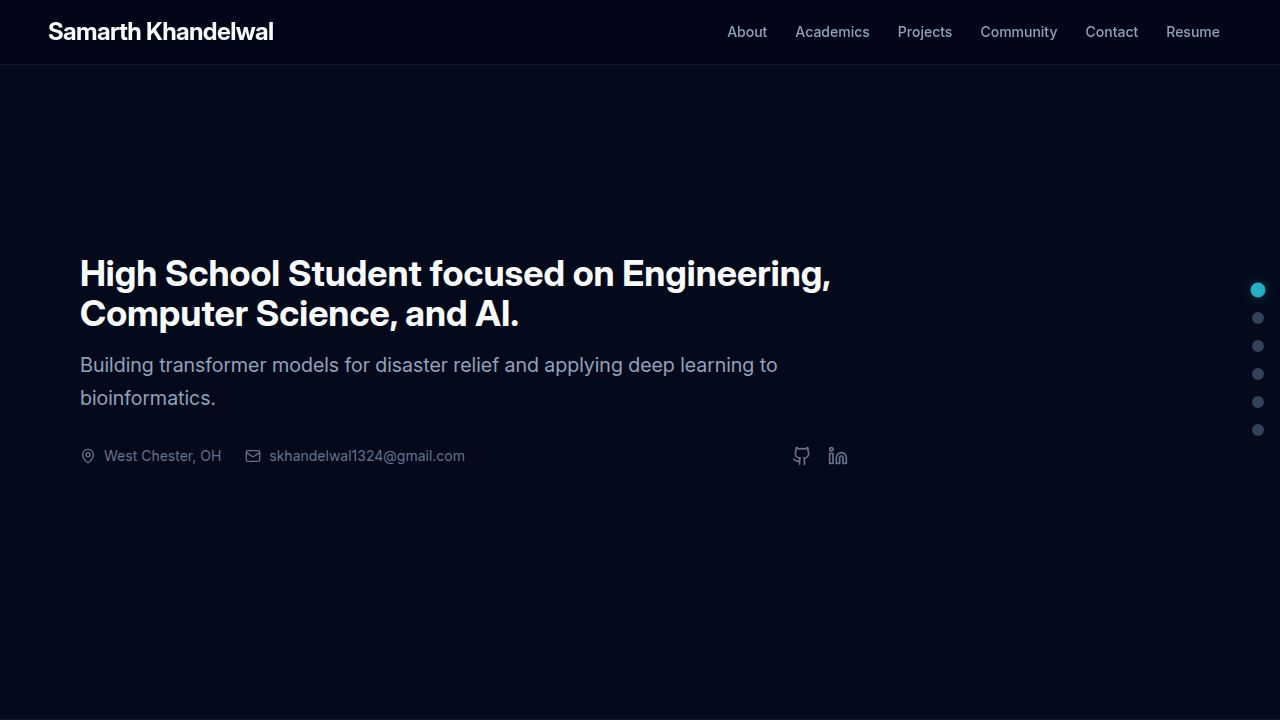
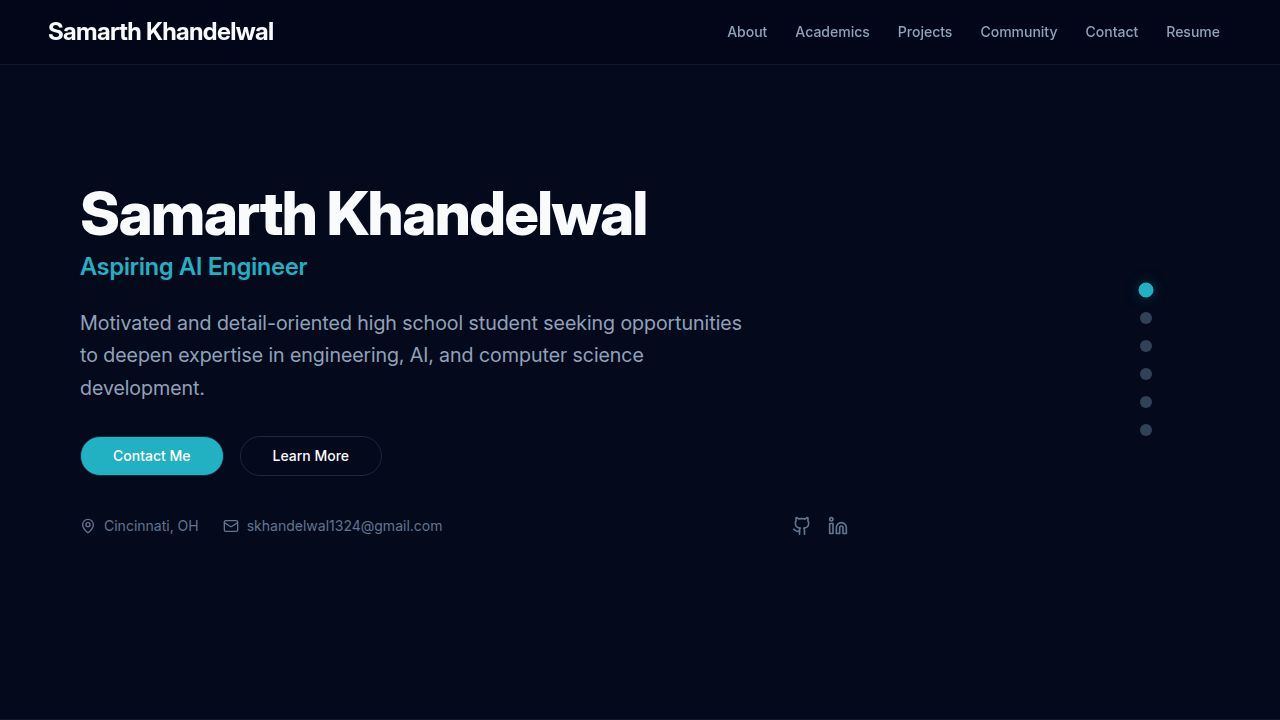
Update website with location, about me section, and improved scrolling
Adjusts the location from West Chester to Cincinnati, OH, revamps the About Me section into a two-column layout with distinct personal introductions and skill highlights, and modifies scroll behavior to align section headings at the top of the screen.

Replit-Commit-Author: Agent
Replit-Commit-Session-Id: 5c221e85-c154-45d0-b173-a511ac5f6470
Replit-Commit-Checkpoint-Type: full_checkpoint
Replit-Commit-Event-Id: 9a801fcf-d754-440b-9bd5-841f89a6f0b5
Replit-Commit-Screenshot-Url: https://storage.googleapis.com/screenshot-production-us-central1/4f9057a6-5305-4a67-9094-e05103cac24f/5c221e85-c154-45d0-b173-a511ac5f6470/X8LCjYA
Replit-Helium-Checkpoint-Created: true

diff --git a/client/src/pages/home.tsx b/client/src/pages/home.tsx
@@ -141,13 +141,17 @@ const AboutSectionContent = () => (
       variants={fadeIn}
     >
       <h2 className="text-3xl font-bold mb-8 text-slate-900 dark:text-slate-50">About Me</h2>
-      <div className="prose dark:prose-invert prose-slate max-w-none text-slate-600 dark:text-slate-300 leading-relaxed text-lg">
-        <p className="mb-6">
-          I am a <span className="font-medium text-primary">Aspiring AI Engineer</span>. I have experience applying advanced concepts, such as transformer models, to real-world challenges like social media analysis for emergency response.
-        </p>
-        <p>
-          Highly motivated student aiming to build the next big ai tool. I have contributed to raising over <span className="font-medium text-slate-900 dark:text-white">$75,000 for cancer research</span> and earned awards in national engineering competitions. I am currently seeking opportunities to deepen my expertise and contribute to meaningful technological innovations.
-        </p>
+      <div className="grid md:grid-cols-2 gap-12 items-start">
+        <div className="prose dark:prose-invert prose-slate max-w-none text-slate-600 dark:text-slate-300 leading-relaxed text-lg order-2 md:order-1">
+          <p>
+            I excel in transforming complex problems into small, workable parts. I've always gravitated towards challenges and breaking boundaries of what people think to be possible. My self-directed approach empowers me to quickly grasp new technologies and adapt to changing environments.
+          </p>
+        </div>
+        <div className="prose dark:prose-invert prose-slate max-w-none text-slate-900 dark:text-slate-100 leading-relaxed text-xl font-medium order-1 md:order-2 border-l-4 border-primary pl-6 py-2 bg-slate-50 dark:bg-slate-900/50 rounded-r-lg">
+          <p>
+            Hi, I'm Samarth, a high schooler fascinated by AI and its potential to change the world.
+          </p>
+        </div>
       </div>
     </motion.div>
 );
@@ -582,7 +586,7 @@ export default function Home() {
             <h1 className="text-4xl md:text-6xl font-extrabold mb-2 text-slate-900 dark:text-slate-50 tracking-tight">Samarth Khandelwal</h1>
             <p className="text-xl md:text-2xl font-semibold text-primary mb-6">Aspiring AI Engineer</p>
             <p className="text-lg md:text-xl text-slate-600 dark:text-slate-400 mb-8 leading-relaxed max-w-2xl">
-              Motivated and detail-oriented high school student seeking oppertuntities to deepen expertise in engineering, AI and computer science development.
+              Motivated and detail-oriented high school student seeking opportunities to deepen expertise in engineering, AI, and computer science development.
             </p>
             <div className="flex flex-wrap gap-4 mb-10">
               <Button 
@@ -604,7 +608,7 @@ export default function Home() {
             <div className="flex flex-wrap gap-6 text-sm text-slate-500">
               <div className="flex items-center gap-2">
                 <MapPin className="w-4 h-4" />
-                West Chester, OH
+                Cincinnati, OH
               </div>
               <a href="mailto:skhandelwal1324@gmail.com" className="flex items-center gap-2 hover:text-primary transition-colors">
                 <Mail className="w-4 h-4" />
@@ -624,23 +628,23 @@ export default function Home() {
 
         {/* Main Content Area */}
         <main className="flex-1 px-6 md:px-12 lg:px-20 bg-white dark:bg-slate-950">
-          <section id="about" className="max-w-3xl snap-start scroll-mt-20 min-h-screen flex flex-col justify-center py-16">
+          <section id="about" className="max-w-3xl snap-start scroll-mt-0 min-h-screen flex flex-col justify-center py-16">
             <AboutSectionContent />
           </section>
           
-          <section id="academics" className="max-w-3xl border-t border-slate-100 dark:border-slate-800 snap-start scroll-mt-20 min-h-screen flex flex-col justify-center py-16">
+          <section id="academics" className="max-w-3xl border-t border-slate-100 dark:border-slate-800 snap-start scroll-mt-0 min-h-screen flex flex-col justify-center py-16">
             <AcademicsSectionContent />
           </section>
 
-          <section id="projects" className="max-w-3xl border-t border-slate-100 dark:border-slate-800 snap-start scroll-mt-20 min-h-screen flex flex-col justify-center py-16">
+          <section id="projects" className="max-w-3xl border-t border-slate-100 dark:border-slate-800 snap-start scroll-mt-0 min-h-screen flex flex-col justify-center py-16">
             <ProjectsSectionContent />
           </section>
 
-          <section id="community" className="max-w-3xl border-t border-slate-100 dark:border-slate-800 snap-start scroll-mt-20 min-h-screen flex flex-col justify-center py-16">
+          <section id="community" className="max-w-3xl border-t border-slate-100 dark:border-slate-800 snap-start scroll-mt-0 min-h-screen flex flex-col justify-center py-16">
             <CommunitySectionContent />
           </section>
 
-          <section id="contact" className="border-t border-slate-100 dark:border-slate-800 snap-start scroll-mt-20 min-h-screen flex flex-col justify-center py-16">
+          <section id="contact" className="border-t border-slate-100 dark:border-slate-800 snap-start scroll-mt-0 min-h-screen flex flex-col justify-center py-16">
             <ContactSectionContent />
           </section>
           
